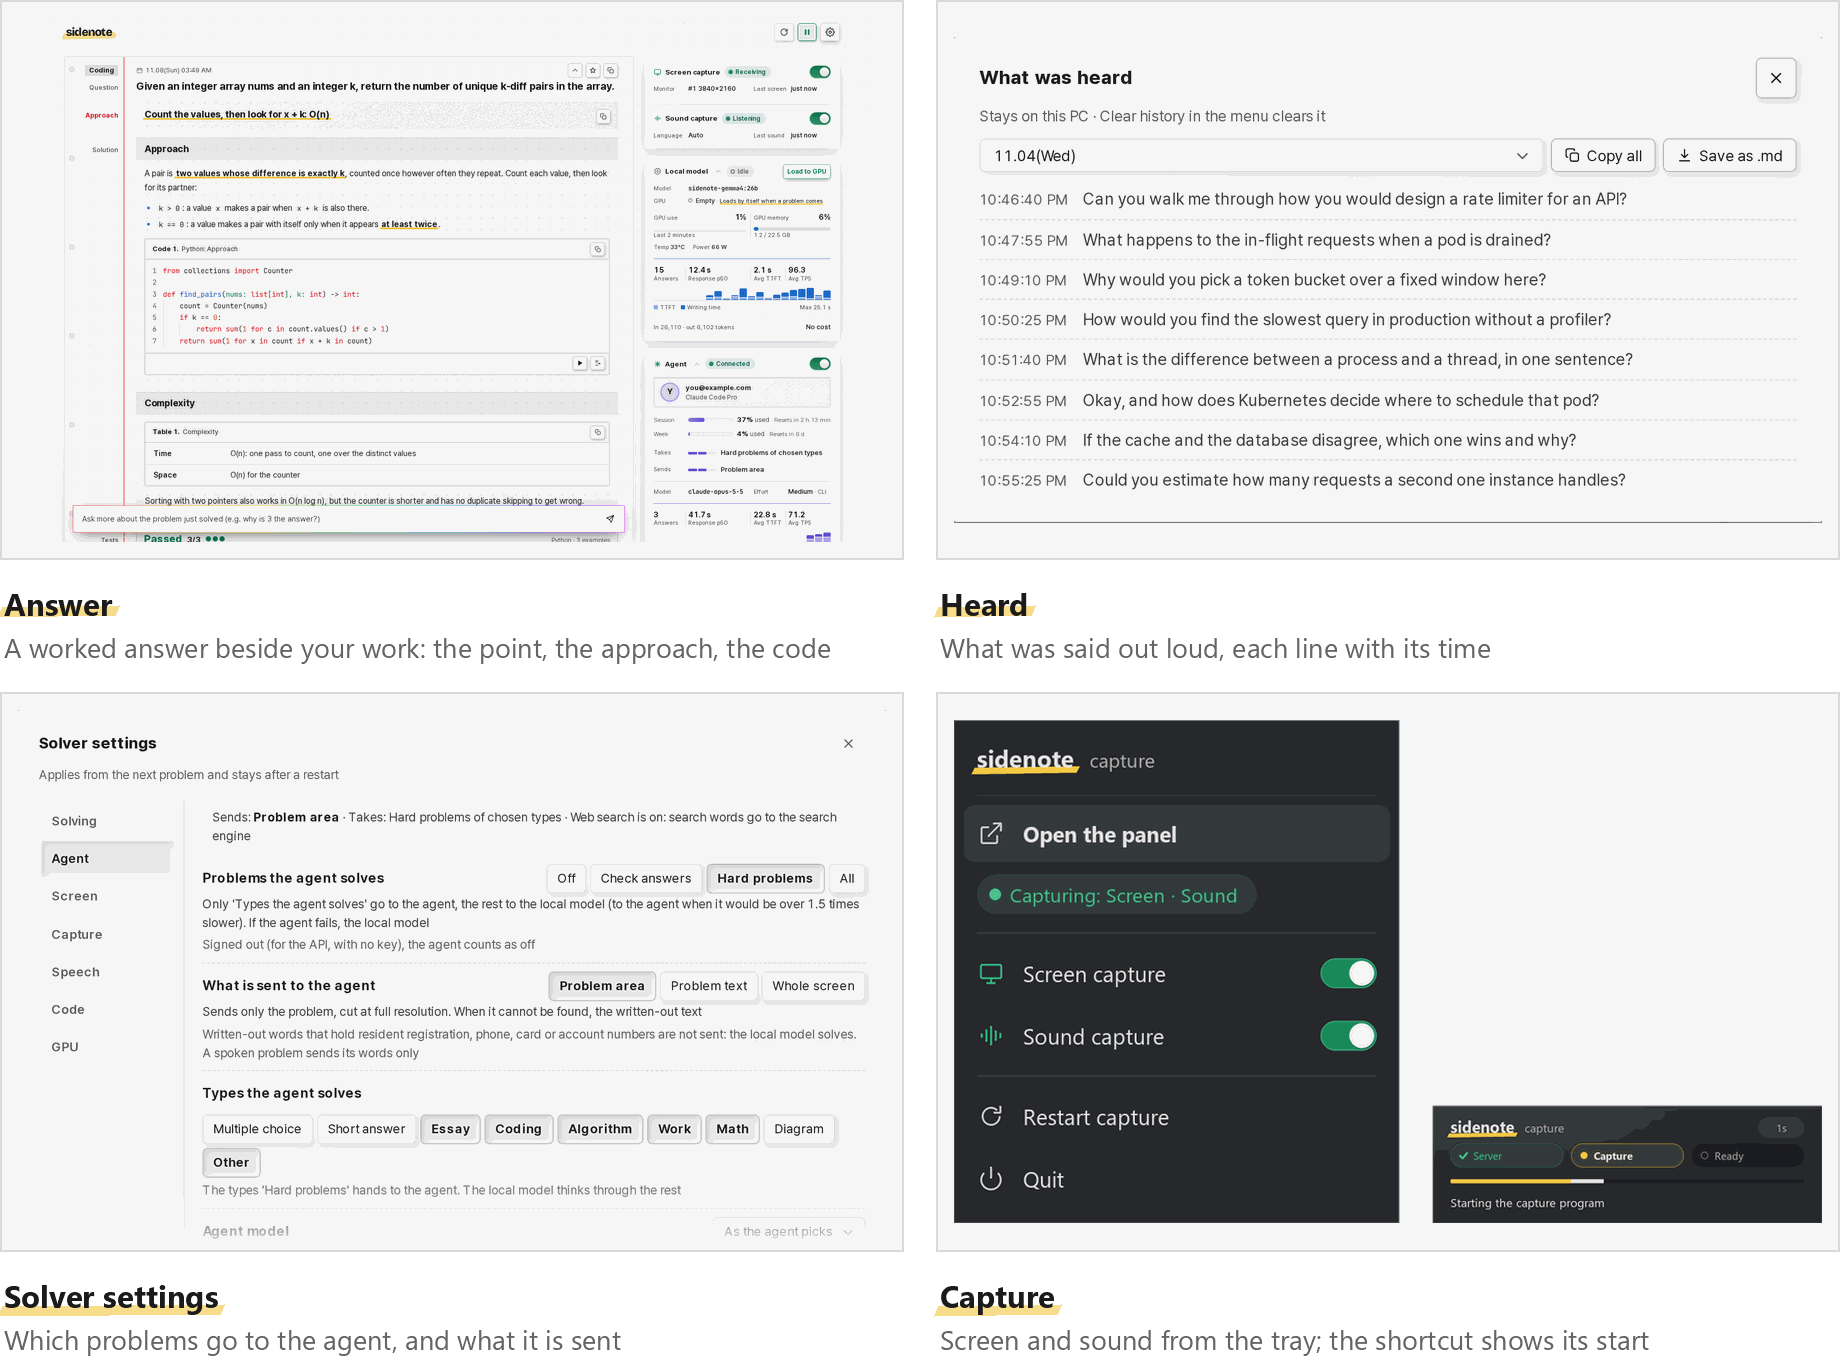
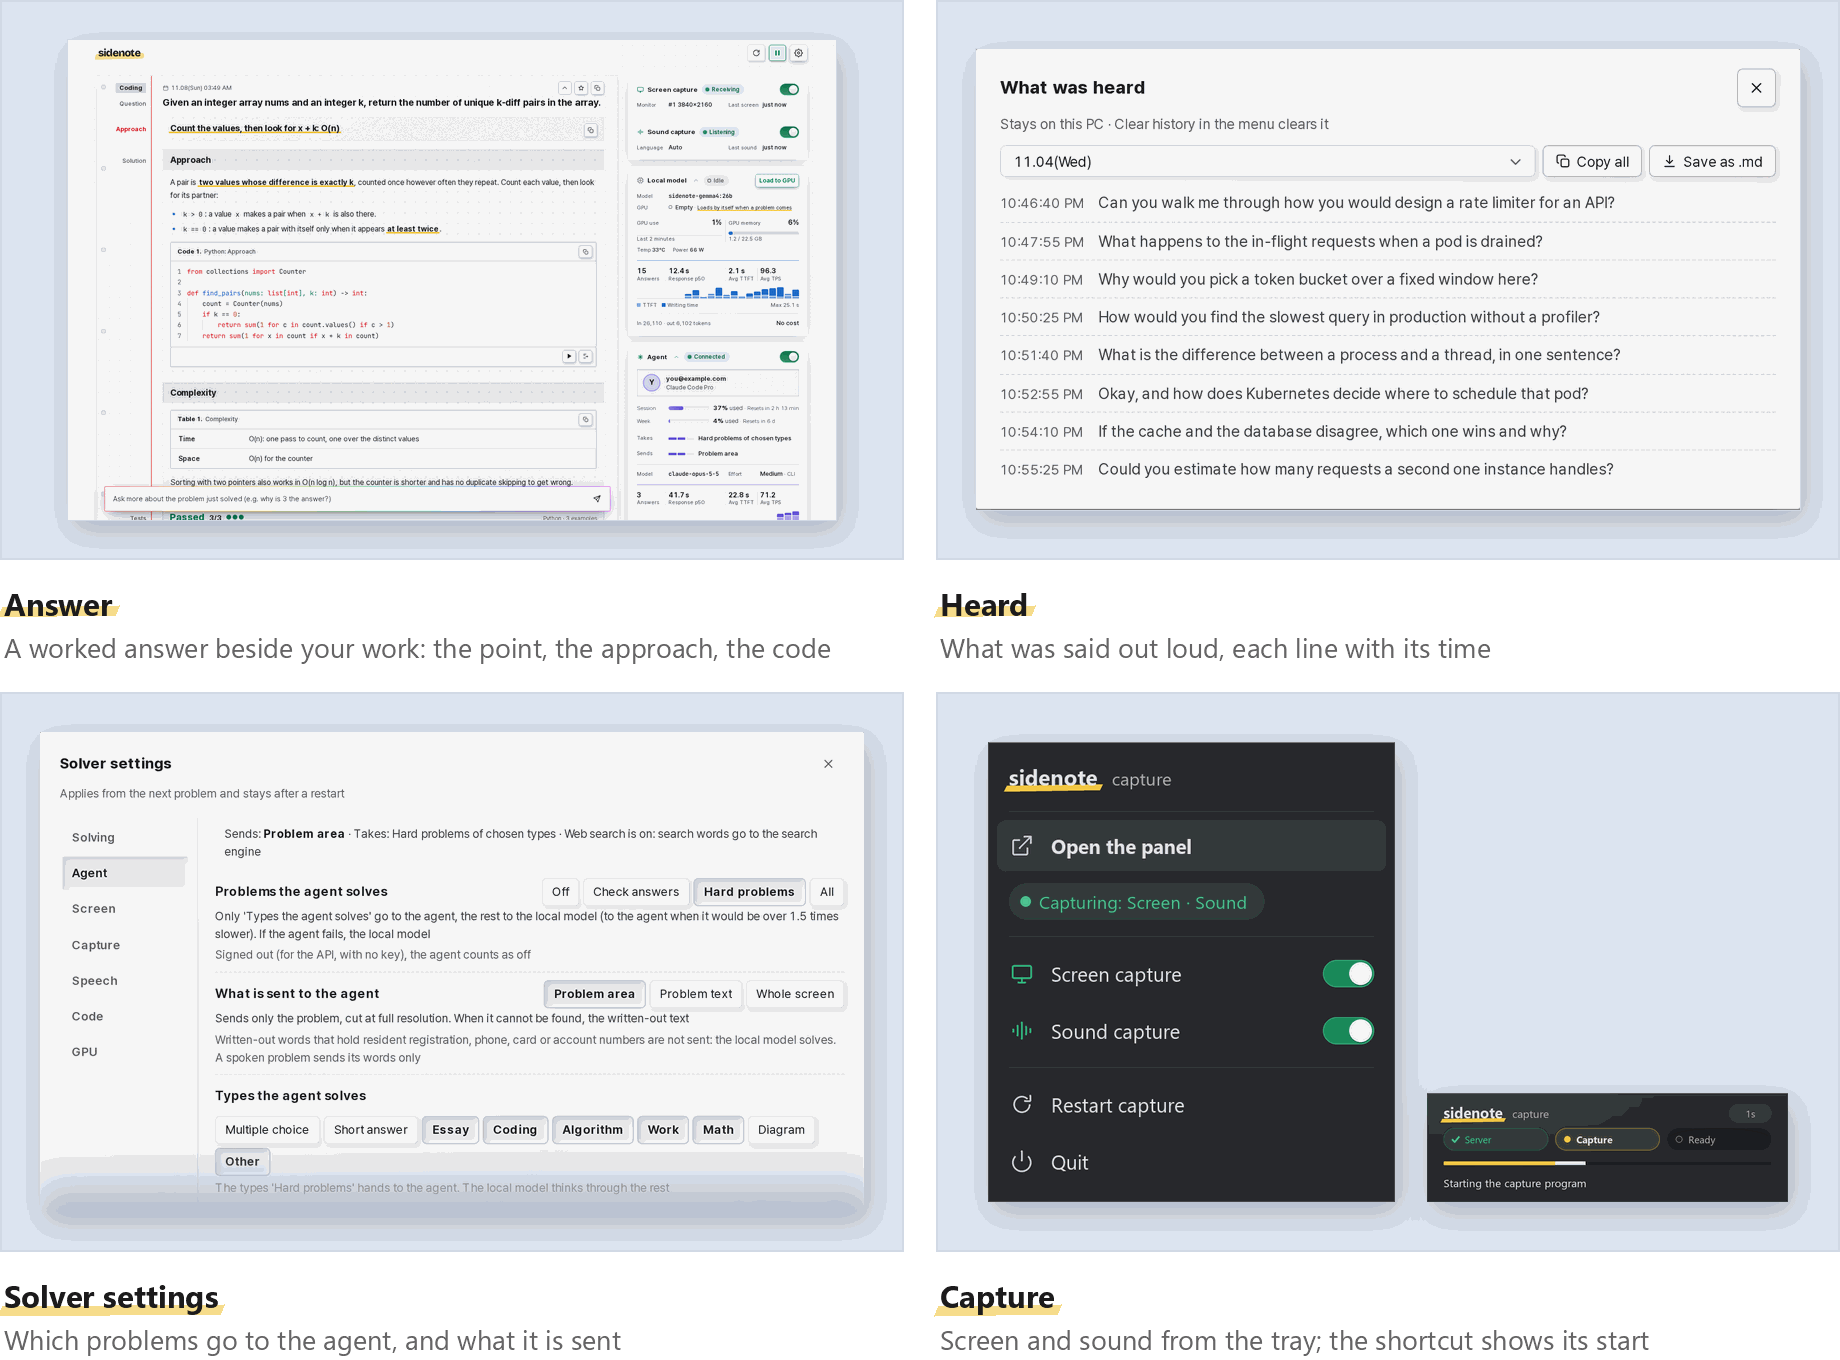
The README's first picture on a slate blue backdrop
The dark views stood in frames as dark as they are, on a dark page, and
read as one black block; the light ones as white on white. Each view now
sits on a backdrop with room and a soft shadow around it: slate blue in
the dark picture, a light blue in the light one, the corners square as
the panel's. Flat colours, so the 256-colour pictures keep no bands.

diff --git a/CHANGELOG.md b/CHANGELOG.md
@@ -6,6 +6,11 @@ that only fixes raises the patch number. Each release's section here is its rele
 
 ## [Unreleased]
 
+### Changed
+
+- The README's first picture sets each view on a slate blue backdrop with room and a shadow around it, light blue in the
+  light picture, where the dark views stood on a frame as dark as they are.
+
 ## [0.5.1] - 2026-11-08
 
 ### Fixed
